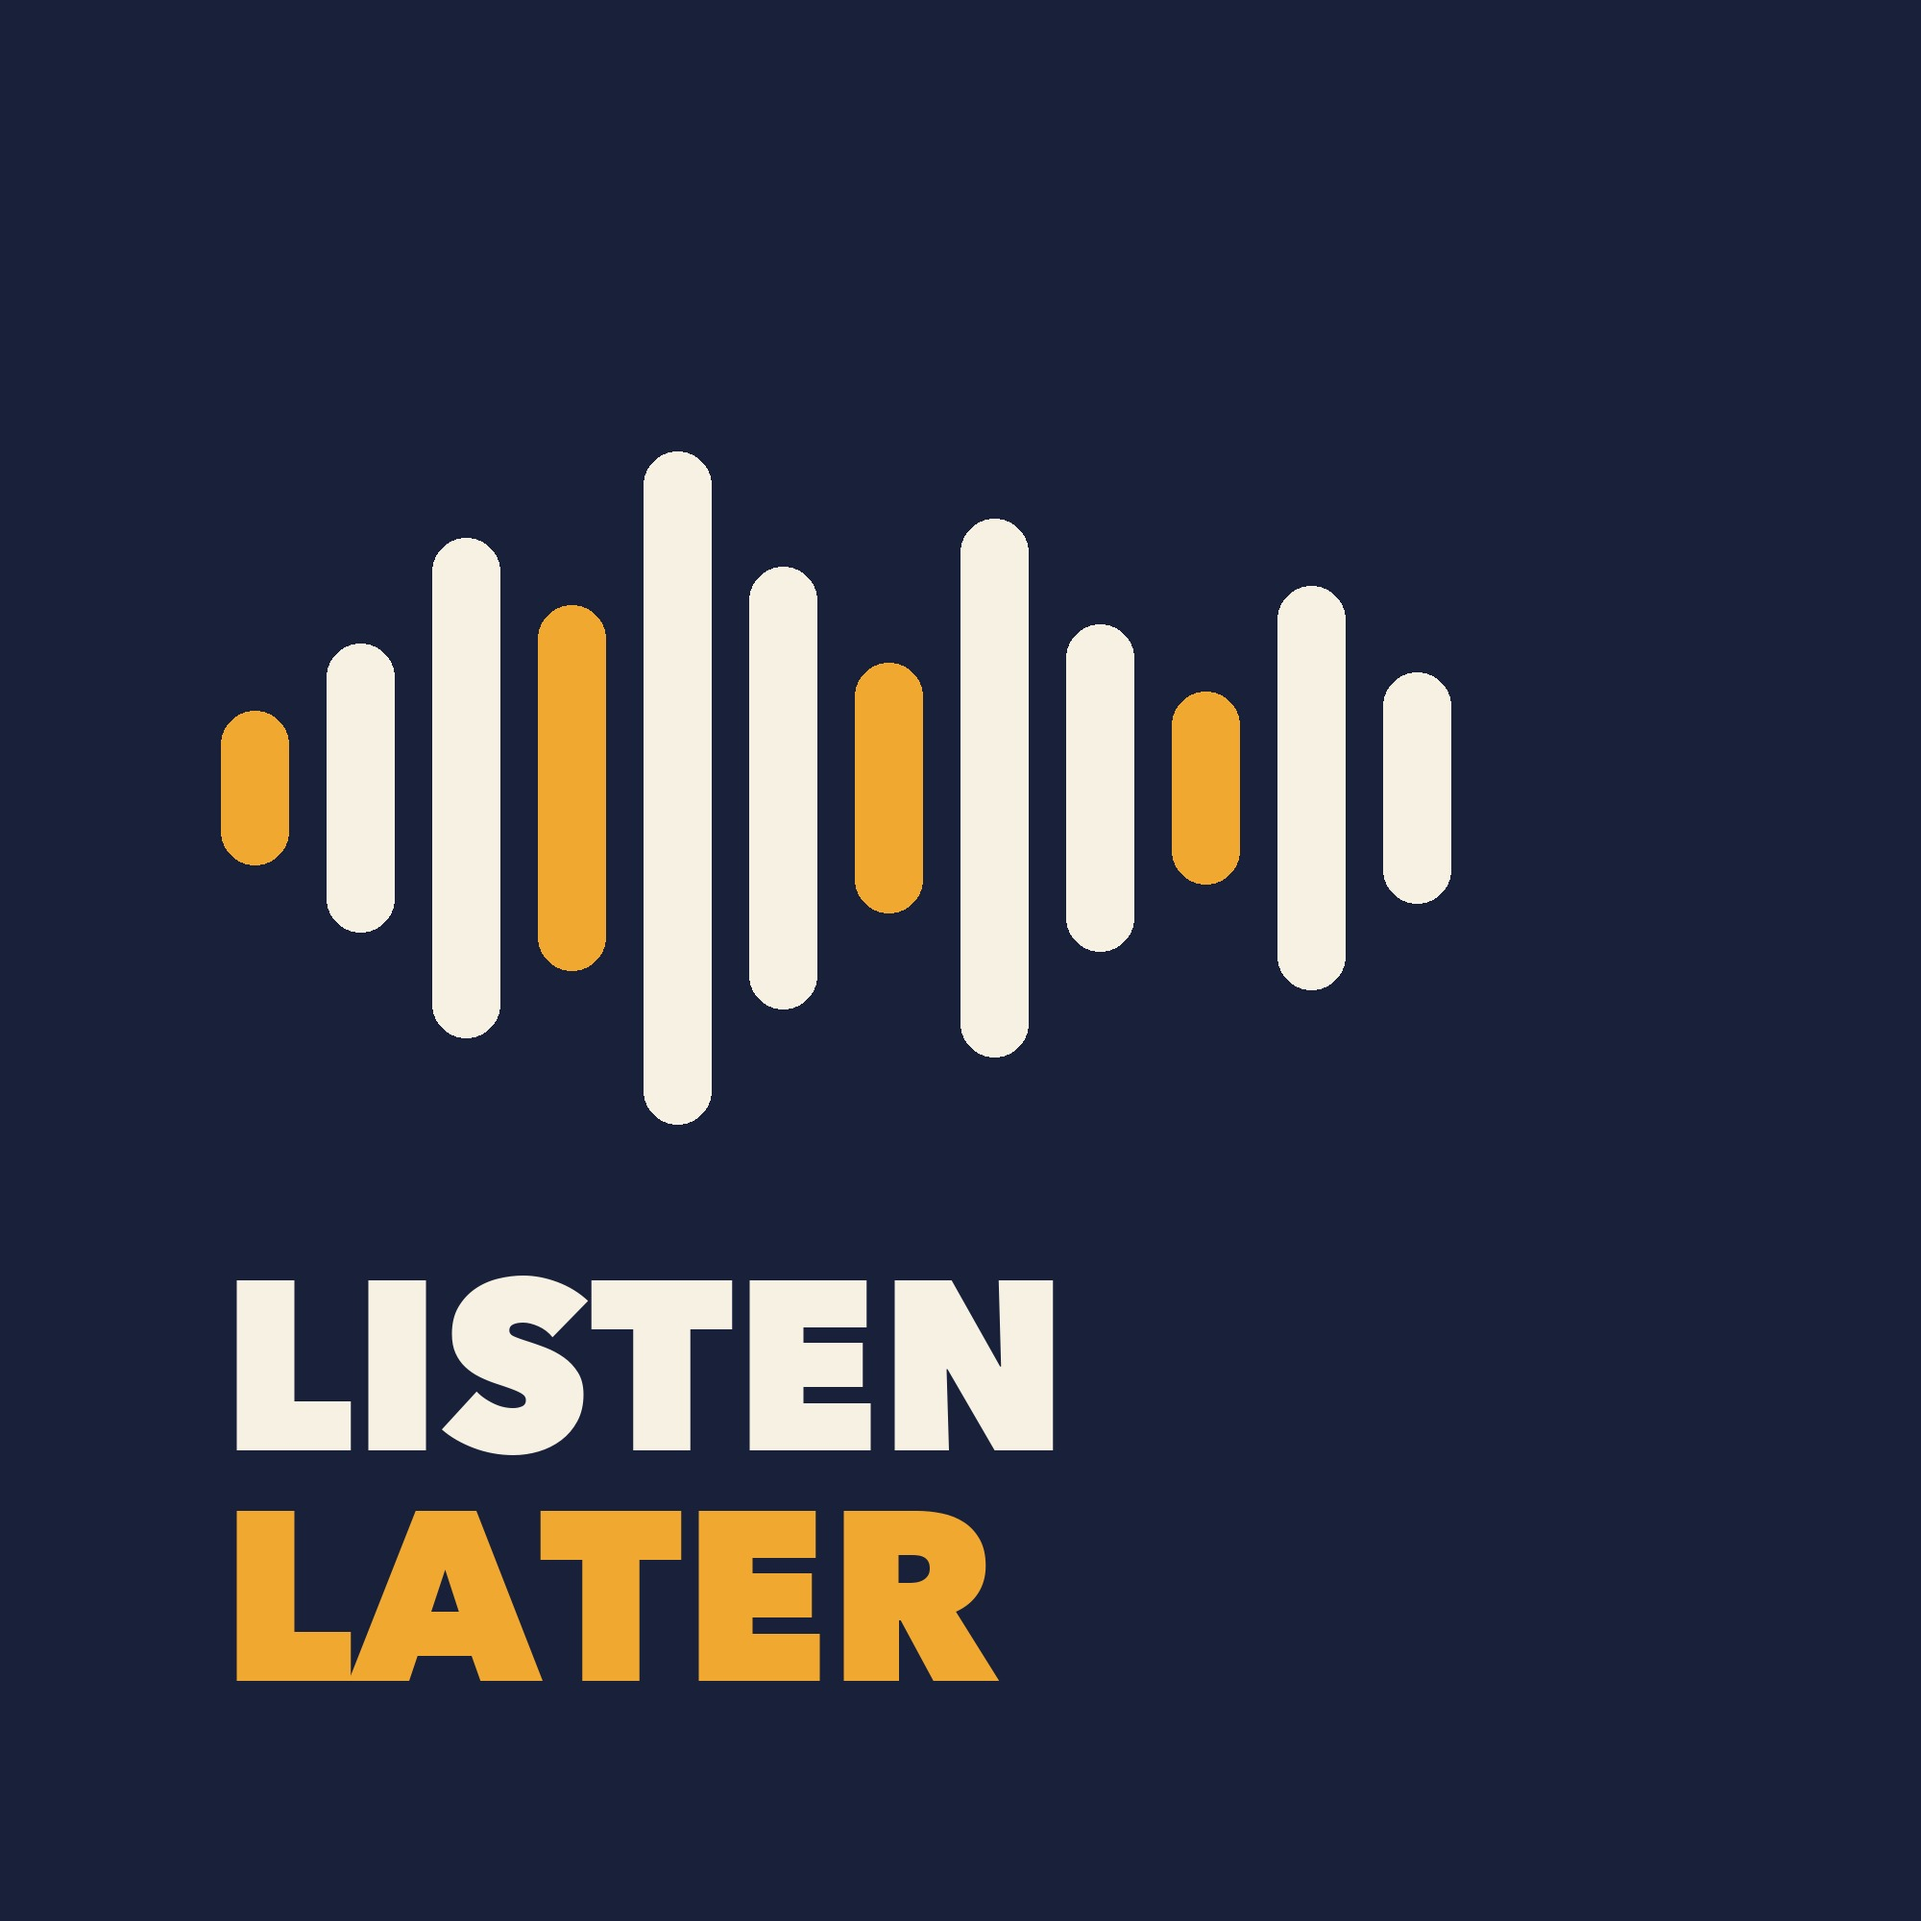
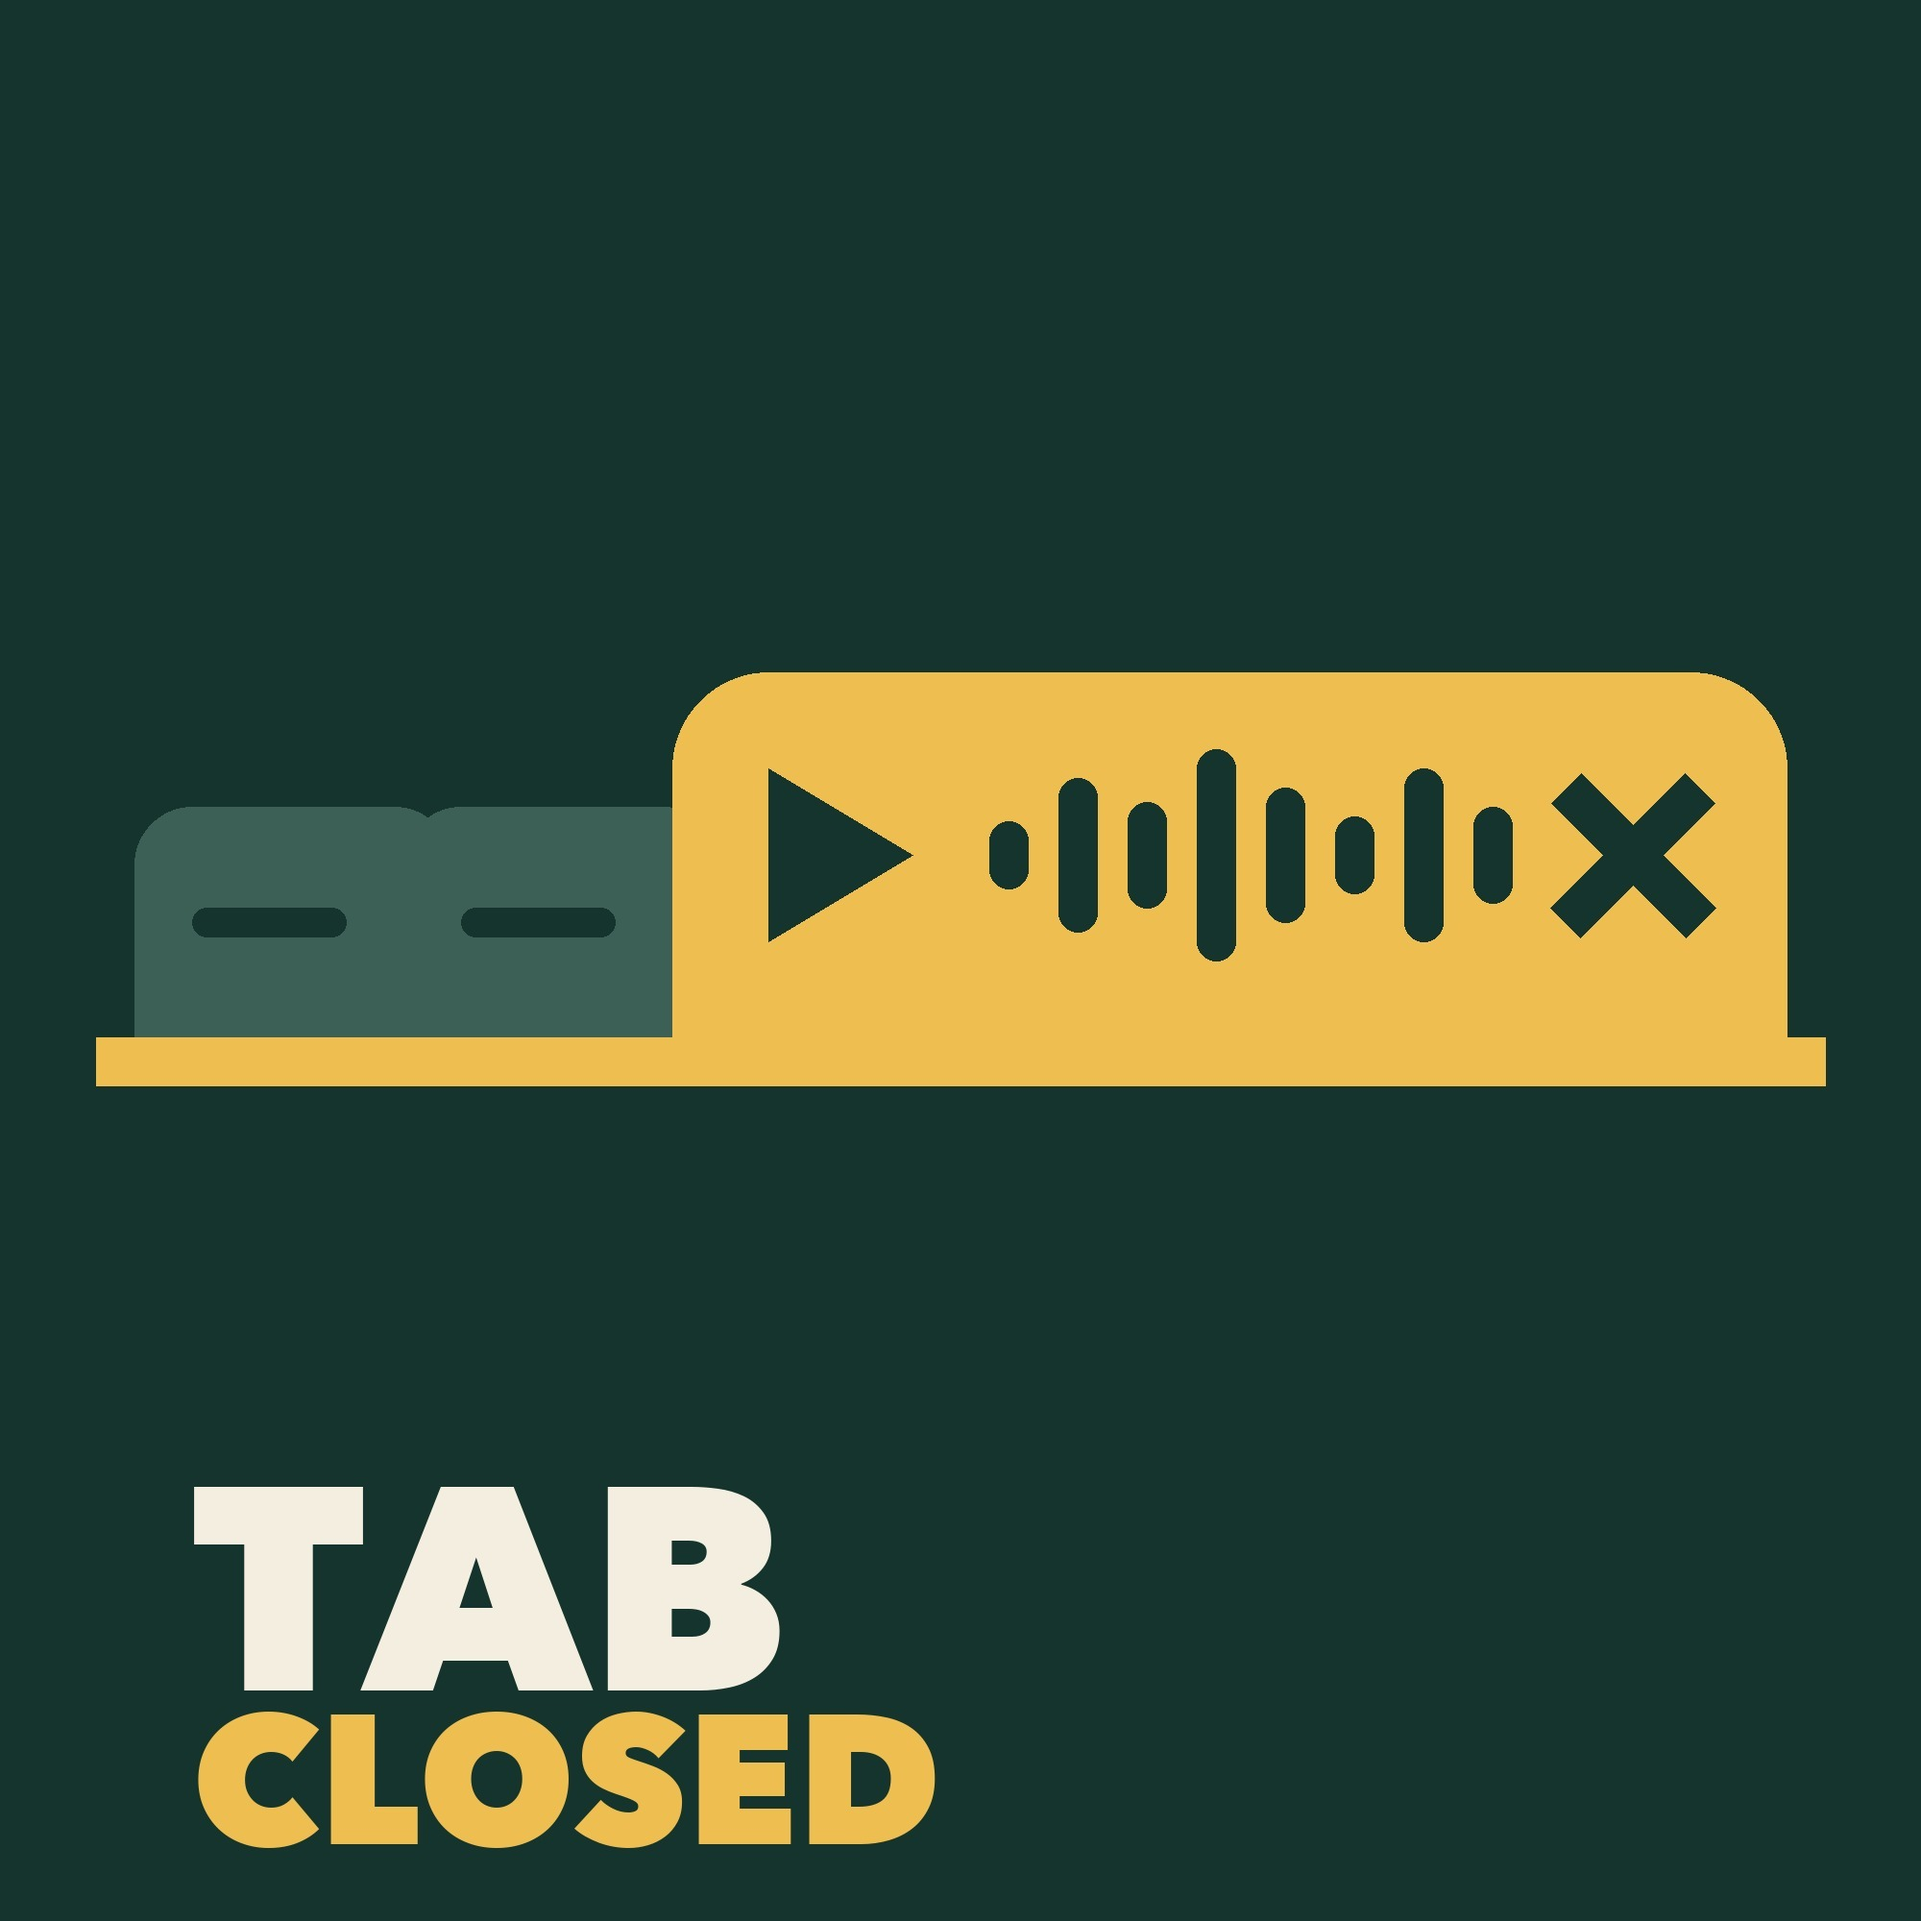
Rename the show to Tab Closed, with the tab-strip cover
The feed URL and guid prefix stay, so episode 1 keeps its identity in
Pocket Casts. Episode 1's cover is redrawn on the new art.

Changed region(s): [[0.031, 0.217, 0.961, 0.589], [0.093, 0.651, 0.558, 0.961]]

diff --git a/index.html b/index.html
@@ -1,5 +1,5 @@
 <!doctype html>
 <html lang="en"><head><meta charset="utf-8">
 <meta name="robots" content="noindex,nofollow">
-<title>Listen Later</title></head>
+<title>Tab Closed</title></head>
 <body><p>Private feed. Nothing to see here.</p></body></html>

diff --git a/README.md b/README.md
@@ -1,4 +1,4 @@
-# Listen Later (unlisted)
+# Tab Closed (unlisted)
 
 Pages, articles and papers saved with the `listen` command in
 `threshold-and-bar-tools`, cleaned up for the ear and read aloud. The repo is
